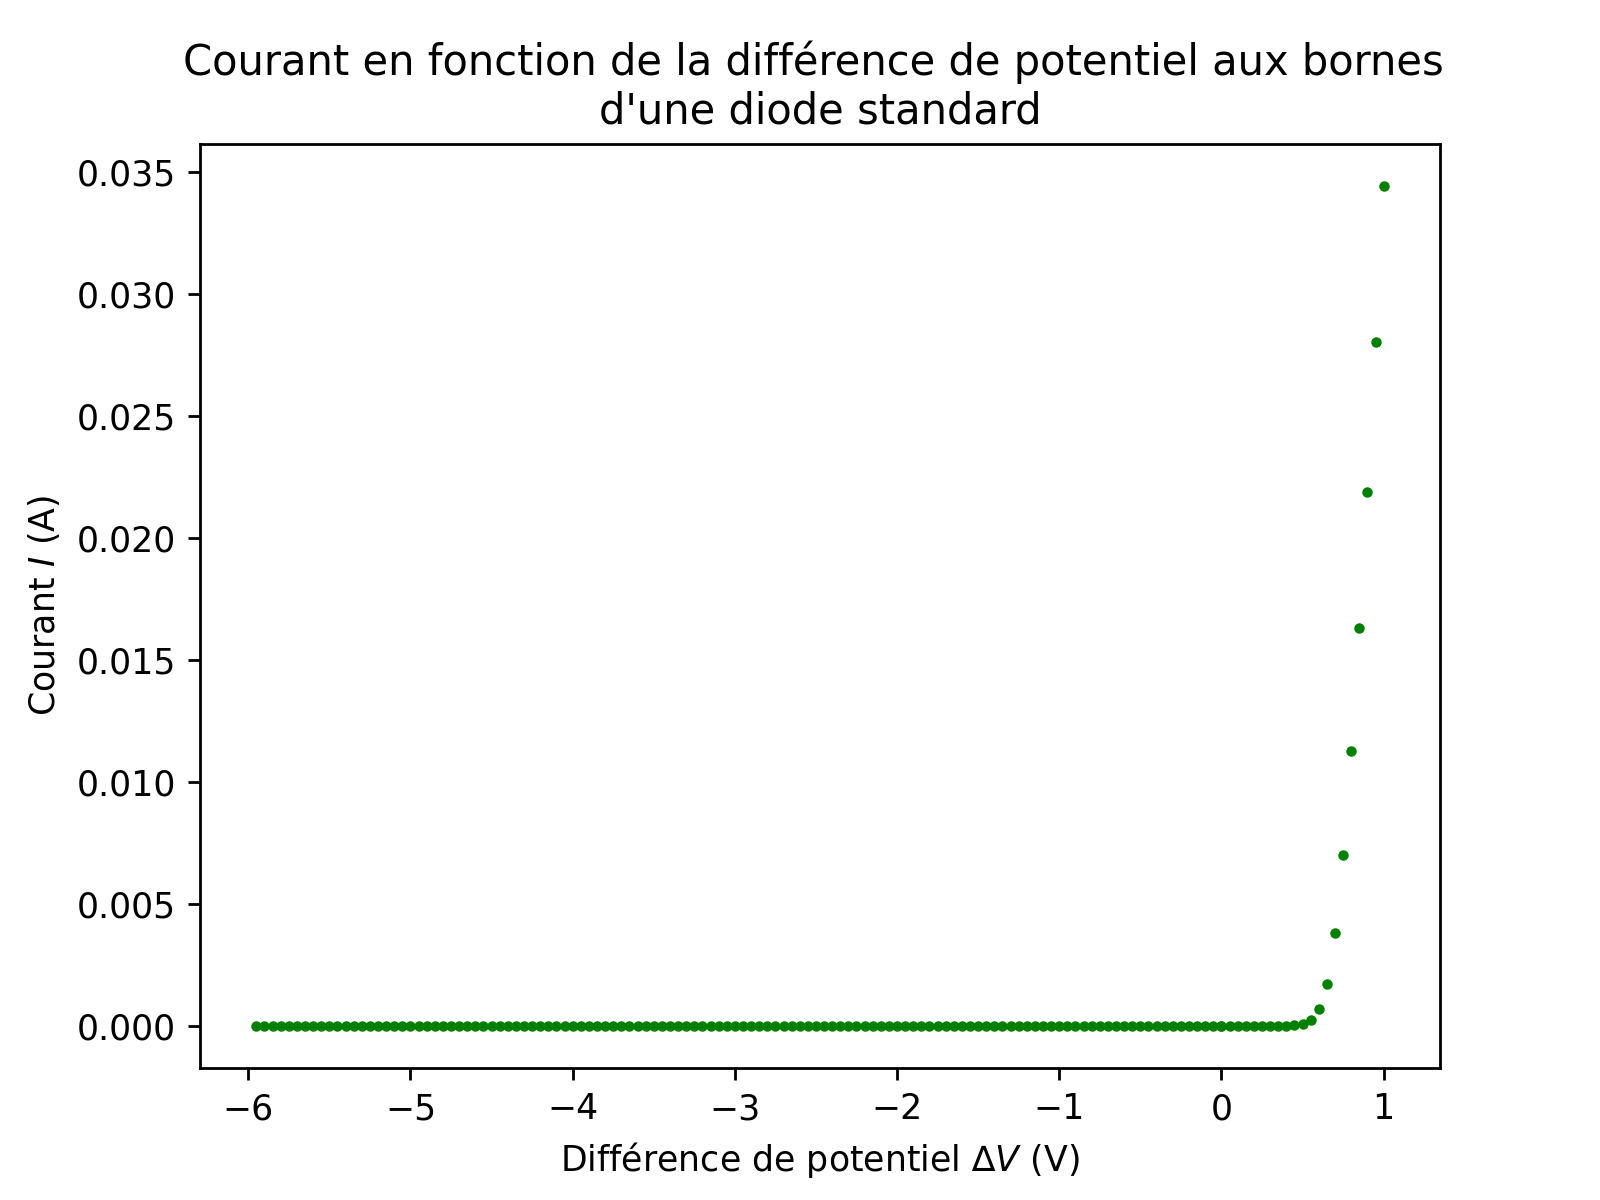
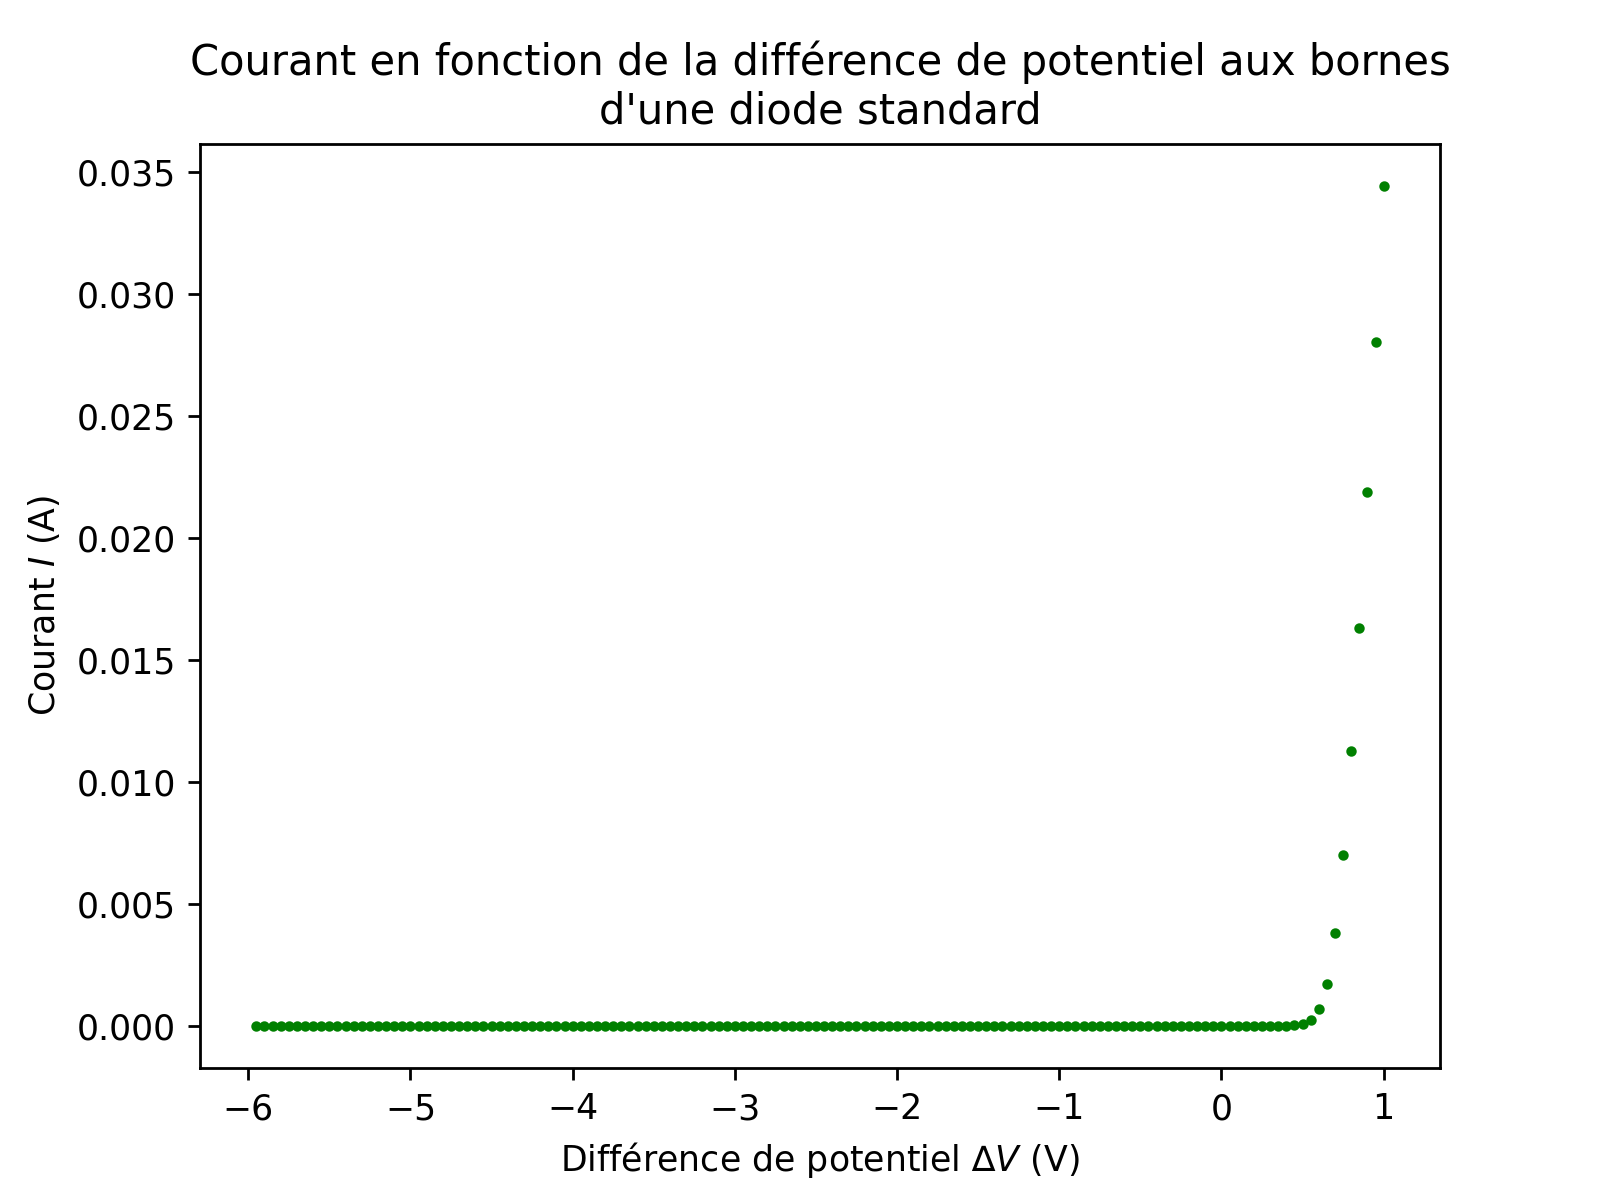
new dynamic resistance

Changed region(s): [[0.0938, 0.0308, 0.9062, 0.0617]]

diff --git a/lab_3/graph_maker.py b/lab_3/graph_maker.py
@@ -79,20 +79,20 @@ def make_figures_for_parts_abce():
 def make_figure_for_part_d():
     zero_to_six = read_lvm("lab_3/data/part_3_d_0to6.lvm")
     zero_to_one = read_lvm("lab_3/data/part_3_d_0to1.lvm")
-    global_array = np.concatenate(((zero_to_six * (-1))[::-1], zero_to_one))
+    global_array = np.concatenate(((zero_to_six * (-1))[::-1], zero_to_one[1:,:]))
     np.save("lab_3/data/concatenated_part_4.npy", global_array)
     params = {
-        "title": "Courant en fonction de la différence de potentiel aux bornes \nd'une diode standard",
+        "title": "Courant en fonction de la différence de potentiel aux bornes\nd'une diode standard",
         "xlabel": "Différence de potentiel $∆V$ (V)", 
         "ylabel": "Courant $I$ (A)"
     }
     plot_graph(global_array, params)
     save_figure("lab_3/graphs/part_3_d.png", show=True)
 
-# make_figure_for_part_d()
+make_figure_for_part_d()
 
 def make_figures_for_part_4():
-    arrays = read_lvm("lab_3/data/part_4_ok_23.lvm")
+    arrays = read_lvm("lab_3/data/part_4_ok_17.lvm")
     params = {
         "title": r"Courant $i_{ce}$ en fonction de la tension $v_{ce}$ pour différentes tensions $v_{be}$",
         "xlabel": r"Différence de potentiel $v_{ce}$ (V)", 
@@ -104,20 +104,32 @@ def make_figures_for_part_4():
     plt.plot(arrays[3][:,0], arrays[3][:,1], "y-", markersize=2, label=r"Tension $v_{be}=0.6$ V")
     plt.plot(arrays[4][:,0], arrays[4][:,1], "m-", markersize=2, label=r"Tension $v_{be}=0.8$ V")
     plt.plot(arrays[5][:,0], arrays[5][:,1], "k-", markersize=2, label=r"Tension $v_{be}=1.0$ V")
-    plt.plot(arrays[6][:,0], arrays[6][:,1], "c-", markersize=2, label=r"Tension $v_{be}=1.2$ V")
-
+    try:
+        plt.plot(arrays[6][:,0], arrays[6][:,1], "c-", markersize=2, label=r"Tension $v_{be}=1.2$ V")
+    except:
+        pass
     plt.title(params["title"])
     plt.xlabel(params["xlabel"])
     plt.ylabel(params["ylabel"])
     plt.legend(fontsize=7)
+
+    # Get the values of i_{sat}
+    i_sat_600mV  = np.mean(arrays[3][1:,1]), np.std(arrays[3][1:,1])
+    i_sat_800mV  = np.mean(arrays[4][4:,1]), np.std(arrays[4][4:,1])
+    i_sat_1000mV = np.mean(arrays[5][6:,1]), np.std(arrays[5][6:,1])
+    i_sat_1200mV = np.mean(arrays[6][8:,1]), np.std(arrays[6][8:,1])
+    plt.text(0.5, 0.4, "yoyoyo", ("Arial", 12))
     plt.show()
-    
+
 # make_figures_for_part_4()
 
 def make_figure_for_dvdi():
     array = np.load("lab_3/data/concatenated_part_4.npy")
+    print(array[115:125,:])
     diff_array = np.diff(array, n=1, axis=0)
-    plotted_array = np.stack((array[:-1,0], diff_array[:,1]/diff_array[:,0]), axis=1)
+    print(diff_array[115:125,:])
+    print(array[:-1,0])
+    plotted_array = np.stack((array[:-1,0], diff_array[:,0]/diff_array[:,1]), axis=1)
     params = {
         "title": ("Résistance dynamique $R_D$ en fonction de la différence\n" + 
                   "de potentiel aux bornes d'une diode standard"),
@@ -127,12 +139,12 @@ def make_figure_for_dvdi():
     plot_graph(plotted_array, params)
     save_figure("lab_3/graphs/dynamic_resistance.png", show=True)
 
-# make_figure_for_dvdi()
+make_figure_for_dvdi()
 
 def make_figure_for_fitted_diode():
     array = np.load("lab_3/data/concatenated_part_4.npy")
     params = {
-        "title": ("Courant en fonction de la différence de potentiel aux bornes \nd'une diode standard avec un" + 
+        "title": ("Courant en fonction de la différence de potentiel aux bornes \nd'une diode standard avec un " + 
                   "ajustement de l'équation de Shockley"),
         "xlabel": "Différence de potentiel $∆V$ (V)", 
         "ylabel": "Courant $I$ (A)"
@@ -148,5 +160,5 @@ def make_figure_for_fitted_diode():
     plt.plot(x_space, shockley_equation(x_space, i_0, v_0), "b-", markersize=2)
     save_figure("lab_3/graphs/shockley.png", show=True)
 
-make_figure_for_fitted_diode()
+# make_figure_for_fitted_diode()
 
